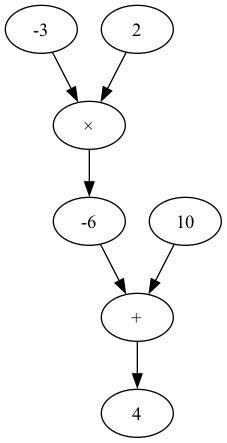
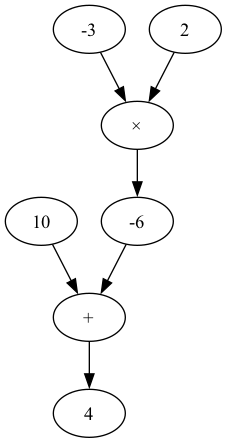
Implement `tanh` for `Value`

diff --git a/src/lib.rs b/src/lib.rs
@@ -39,6 +39,7 @@ pub enum Operation {
   Mul,
   Div,
   Neg,
+  Tanh,
 }
 
 impl Display for Operation {
@@ -55,6 +56,7 @@ impl Display for Operation {
         Div => "÷",
         Neg => "-",
         Input => "",
+        Tanh => "tanh",
       }
     )
   }
@@ -147,6 +149,7 @@ impl Value {
   pub fn to_graphviz_graph(&self) -> Graph {
     let mut queue = VecDeque::new();
     let mut visited = HashSet::new();
+
     let mut nodes = Vec::new();
     let mut op_nodes = Vec::new();
 
@@ -155,14 +158,19 @@ impl Value {
     while let Some(cur) = queue.pop_front() {
       if visited.insert(cur.data) {
         nodes.push(cur.clone());
+
         if cur.operation != Operation::Input {
           op_nodes.push(cur.clone());
         }
+
         for child in &cur.children {
           queue.push_back(child.clone());
         }
       }
     }
+
+    nodes.sort_by(|a, b| a.data.partial_cmp(&b.data).unwrap());
+    op_nodes.sort_by(|a, b| a.data.partial_cmp(&b.data).unwrap());
 
     let mut ids = HashMap::new();
     let mut op_ids = HashMap::new();
@@ -177,7 +185,6 @@ impl Value {
 
     let mut stmts = Vec::new();
 
-    // Add value nodes
     for (i, node) in nodes.iter().enumerate() {
       let label_attr = Attribute(
         Id::Plain("label".to_string()),
@@ -192,7 +199,6 @@ impl Value {
       stmts.push(Stmt::Node(n));
     }
 
-    // Add operator nodes
     for (i, node) in op_nodes.iter().enumerate() {
       let label_attr = Attribute(
         Id::Plain("label".to_string()),
@@ -207,36 +213,43 @@ impl Value {
       stmts.push(Stmt::Node(n));
     }
 
-    // Add edges
+    let mut edges = Vec::new();
+
     for node in &op_nodes {
       let op_i = op_ids[&node.data];
       let node_i = ids[&node.data];
 
-      // Edge from operator to result
-      let e = Edge {
+      edges.push(Edge {
         ty: EdgeTy::Pair(
           Vertex::N(NodeId(Id::Plain(format!("op{}", op_i)), None)),
           Vertex::N(NodeId(Id::Plain(format!("node{}", node_i)), None)),
         ),
         attributes: vec![],
-      };
-      stmts.push(Stmt::Edge(e));
+      });
 
-      // Edges from inputs to operator
-      for child in &node.children {
+      let mut sorted_children: Vec<_> = node.children.iter().collect();
+      sorted_children.sort_by(|a, b| a.data.partial_cmp(&b.data).unwrap());
+
+      for child in sorted_children {
         let ci = ids[&child.data];
 
-        let e = Edge {
+        edges.push(Edge {
           ty: EdgeTy::Pair(
             Vertex::N(NodeId(Id::Plain(format!("node{}", ci)), None)),
             Vertex::N(NodeId(Id::Plain(format!("op{}", op_i)), None)),
           ),
           attributes: vec![],
-        };
-
-        stmts.push(Stmt::Edge(e));
+        });
       }
     }
+
+    edges.sort_by(|a, b| {
+      let a_str = format!("{:?}", a);
+      let b_str = format!("{:?}", b);
+      a_str.cmp(&b_str)
+    });
+
+    stmts.extend(edges.into_iter().map(Stmt::Edge));
 
     Graph::DiGraph {
       id: Id::Plain("G".to_string()),
@@ -248,7 +261,7 @@ impl Value {
   pub fn to_dot_string(&self) -> String {
     let g = self.to_graphviz_graph();
     let mut ctx = PrinterContext::default();
-    g.print(&mut ctx)
+    format!("{}\n", g.print(&mut ctx))
   }
 }
 
@@ -314,9 +327,31 @@ impl_value_binary_op!(
 
 impl_value_unary_op!(Neg, neg, -, Operation::Neg);
 
+pub trait Tanh {
+  type Output;
+
+  fn tanh(self) -> Self::Output;
+}
+
+impl Tanh for Value {
+  type Output = Result<Value, ValueError>;
+
+  fn tanh(self) -> Self::Output {
+    Value::unary_op(self, |x| x.tanh(), Operation::Tanh)
+  }
+}
+
+impl Tanh for &Value {
+  type Output = Result<Value, ValueError>;
+
+  fn tanh(self) -> Self::Output {
+    Value::unary_op(self.clone(), |x| x.tanh(), Operation::Tanh)
+  }
+}
+
 #[cfg(test)]
 mod tests {
-  use super::*;
+  use {super::*, indoc::indoc};
 
   #[test]
   fn new() {
@@ -514,10 +549,25 @@ mod tests {
   fn dot_generation_test() {
     let a = Value::new(2.0).unwrap();
     let b = Value::new(3.0).unwrap();
+
     let sum = (a + b).unwrap();
+
     let dot = sum.to_dot_string();
-    assert!(dot.contains("digraph G"));
-    assert!(dot.contains("label=5\\nAdd"));
+
+    pretty_assertions::assert_eq!(
+      dot,
+      indoc! {"
+        digraph G {
+          node0[label=\"2\"]
+          node1[label=\"3\"]
+          node2[label=\"5\"]
+          op0[label=\"+\"]
+          node0 -> op0
+          node1 -> op0
+          op0 -> node2
+        }
+      "}
+    );
   }
 
   #[test]
@@ -525,9 +575,62 @@ mod tests {
     let a = Value::new(2.0).unwrap();
     let b = Value::new(3.0).unwrap();
     let c = Value::new(4.0).unwrap();
+
     let sum = (a + b).unwrap();
     let result = ((sum).clone() * c).unwrap();
+
     let dot = result.to_dot_string();
-    assert!(dot.contains("node0[label=20\\nMul]"));
+
+    pretty_assertions::assert_eq!(
+      dot,
+      indoc! {"
+        digraph G {
+          node0[label=\"2\"]
+          node1[label=\"3\"]
+          node2[label=\"4\"]
+          node3[label=\"5\"]
+          node4[label=\"20\"]
+          op0[label=\"+\"]
+          op1[label=\"×\"]
+          node0 -> op0
+          node1 -> op0
+          node2 -> op1
+          node3 -> op1
+          op0 -> node3
+          op1 -> node4
+        }
+      "}
+    );
+  }
+
+  #[test]
+  fn tanh_operation() {
+    let v = Value::new(0.0).unwrap();
+    let result = v.tanh().unwrap();
+    assert_eq!(result.operation, Operation::Tanh);
+    assert_eq!(result.get(), 0.0);
+
+    let v = Value::new(1.0).unwrap();
+    let result = v.tanh().unwrap();
+    assert_eq!(result.get(), 0.7615941559557649); // tanh(1)
+
+    let v = Value::new(-2.0).unwrap();
+    let result = v.tanh().unwrap();
+    assert_eq!(result.get(), -0.9640275800758169); // tanh(-2)
+  }
+
+  #[test]
+  fn tanh_with_children() {
+    let v = Value::new(1.0).unwrap();
+    let result = v.tanh().unwrap();
+    assert_eq!(result.children().len(), 1);
+    assert_eq!(result.children().iter().next().unwrap().get(), 1.0);
+  }
+
+  #[test]
+  fn reference_tanh() {
+    let v = Value::new(1.0).unwrap();
+    let result = (&v).tanh().unwrap();
+    assert_eq!(result.get(), 0.7615941559557649);
   }
 }
